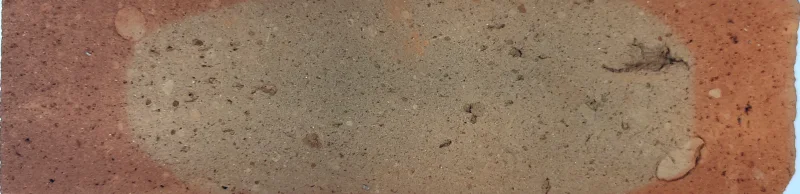
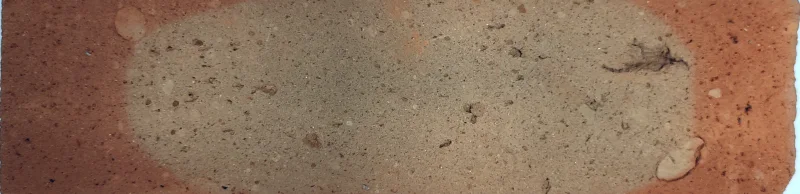
fix: mescla-prime perdia as manchas caracteristicas no flat-field
Causa raiz: sigma do flat-field (altura/3) era da mesma escala espacial
da mancha caracteristica do produto, entao o algoritmo tratava a mancha
como sombra e atenuava (std do canal L caia 20-35%). Recalibrado sigma
proporcional a largura da peca (blur bem maior que a mancha, calculado
em baixa resolucao + upsample pra performance) e forca reduzida de
0.88 pra 0.6 - corrige so a iluminacao pagina-inteira, preserva a
mancha. std final acima ate do recorte cru (mancha mais nitida que
antes).

- brick-mescla-prime-face1/2.webp reprocessados (mesmo pipeline dos
  passos seguintes: mescla de cor 75% LAB + teste de junta, desvio 0.00)
- cache-bust ?v=1 -> v=2 na entrada do paginacoes.js
- bump geral paginacoes.js?v=13 -> v=14 nas 19 paginas de produto
- smoke test jsdom: 152 pecas, todas em v=2
- documentado em COLABORACAO.md item 44, com nota de protocolo pra
  peças com mancha ampla em vez de textura granular

Changed region(s): [[0.0, 0.0, 0.2188, 1.0]]

diff --git a/paginacoes.js b/paginacoes.js
@@ -20,7 +20,7 @@
         { id: 'brick-lumus',                  nome: 'Lumus',                 w: 265, h: 65,
           texturas: ['brick-lumus-face1.webp?v=3', 'brick-lumus-face2.webp?v=3'] },
         { id: 'brick-mescla-prime',           nome: 'Mescla Prime',          w: 250, h: 70,
-          texturas: ['brick-mescla-prime-face1.webp?v=1', 'brick-mescla-prime-face2.webp?v=1'] },
+          texturas: ['brick-mescla-prime-face1.webp?v=2', 'brick-mescla-prime-face2.webp?v=2'] },
         { id: 'brick-natura',                 nome: 'Natura',                w: 240, h: 70,
           texturas: ['brick-natura-face1.webp?v=3', 'brick-natura-face2.webp?v=3'] },
         { id: 'brick-rosso-prime',            nome: 'Rosso Prime',           w: 240, h: 65 },

diff --git a/produto-cimenticio-alpino.html b/produto-cimenticio-alpino.html
@@ -1166,7 +1166,7 @@ height="0" width="0" style="display:none;visibility:hidden"></iframe></noscript>
   <script defer src="cookie-consent.js?v=1"></script>
   <script defer src="exit-intent.js?v=2"></script>
   <script defer src="amostras.js?v=3"></script>
-  <script defer src="paginacoes.js?v=13"></script>
+  <script defer src="paginacoes.js?v=14"></script>
   <script defer src="lead-pdf.js?v=10"></script>
   <script defer src="parcelamento.js?v=2"></script>
   <script src="analytics.js"></script>

diff --git a/produto-cimenticio-grigio.html b/produto-cimenticio-grigio.html
@@ -1166,7 +1166,7 @@ height="0" width="0" style="display:none;visibility:hidden"></iframe></noscript>
   <script defer src="cookie-consent.js?v=1"></script>
   <script defer src="exit-intent.js?v=2"></script>
   <script defer src="amostras.js?v=3"></script>
-  <script defer src="paginacoes.js?v=13"></script>
+  <script defer src="paginacoes.js?v=14"></script>
   <script defer src="lead-pdf.js?v=10"></script>
   <script defer src="parcelamento.js?v=2"></script>
   <script src="analytics.js"></script>

diff --git a/produto-cimenticio-urban.html b/produto-cimenticio-urban.html
@@ -1170,7 +1170,7 @@ height="0" width="0" style="display:none;visibility:hidden"></iframe></noscript>
   <script defer src="cookie-consent.js?v=1"></script>
   <script defer src="exit-intent.js?v=2"></script>
   <script defer src="amostras.js?v=3"></script>
-  <script defer src="paginacoes.js?v=13"></script>
+  <script defer src="paginacoes.js?v=14"></script>
   <script defer src="lead-pdf.js?v=10"></script>
   <script defer src="parcelamento.js?v=2"></script>
   <script src="analytics.js"></script>

diff --git a/produto-rockface-alpino.html b/produto-rockface-alpino.html
@@ -1167,7 +1167,7 @@ height="0" width="0" style="display:none;visibility:hidden"></iframe></noscript>
   <script defer src="cookie-consent.js?v=1"></script>
   <script defer src="exit-intent.js?v=2"></script>
   <script defer src="amostras.js?v=3"></script>
-  <script defer src="paginacoes.js?v=13"></script>
+  <script defer src="paginacoes.js?v=14"></script>
   <script defer src="lead-pdf.js?v=10"></script>
   <script defer src="parcelamento.js?v=2"></script>
   <script src="analytics.js"></script>

diff --git a/produto-rockface-brisa.html b/produto-rockface-brisa.html
@@ -1167,7 +1167,7 @@ height="0" width="0" style="display:none;visibility:hidden"></iframe></noscript>
   <script defer src="cookie-consent.js?v=1"></script>
   <script defer src="exit-intent.js?v=2"></script>
   <script defer src="amostras.js?v=3"></script>
-  <script defer src="paginacoes.js?v=13"></script>
+  <script defer src="paginacoes.js?v=14"></script>
   <script defer src="lead-pdf.js?v=10"></script>
   <script defer src="parcelamento.js?v=2"></script>
   <script src="analytics.js"></script>

diff --git a/produto-rockface-grigio.html b/produto-rockface-grigio.html
@@ -1167,7 +1167,7 @@ height="0" width="0" style="display:none;visibility:hidden"></iframe></noscript>
   <script defer src="cookie-consent.js?v=1"></script>
   <script defer src="exit-intent.js?v=2"></script>
   <script defer src="amostras.js?v=3"></script>
-  <script defer src="paginacoes.js?v=13"></script>
+  <script defer src="paginacoes.js?v=14"></script>
   <script defer src="lead-pdf.js?v=10"></script>
   <script defer src="parcelamento.js?v=2"></script>
   <script src="analytics.js"></script>

diff --git a/produto-rockface-urban.html b/produto-rockface-urban.html
@@ -1167,7 +1167,7 @@ height="0" width="0" style="display:none;visibility:hidden"></iframe></noscript>
   <script defer src="cookie-consent.js?v=1"></script>
   <script defer src="exit-intent.js?v=2"></script>
   <script defer src="amostras.js?v=3"></script>
-  <script defer src="paginacoes.js?v=13"></script>
+  <script defer src="paginacoes.js?v=14"></script>
   <script defer src="lead-pdf.js?v=10"></script>
   <script defer src="parcelamento.js?v=2"></script>
   <script src="analytics.js"></script>

diff --git a/produto-brick-branco-rose.html b/produto-brick-branco-rose.html
@@ -1089,7 +1089,7 @@ height="0" width="0" style="display:none;visibility:hidden"></iframe></noscript>
 
   <script defer src="promo-frete-gratis.js?v=2"></script>
   <script defer src="amostras.js?v=3"></script>
-  <script defer src="paginacoes.js?v=13"></script>
+  <script defer src="paginacoes.js?v=14"></script>
   <script defer src="header-scroll.js?v=3"></script>
   <script defer src="back-to-top.js?v=1"></script>
   <script defer src="mobile-cta-bar.js?v=1"></script>

diff --git a/produto-brick-eco-palha.html b/produto-brick-eco-palha.html
@@ -1096,7 +1096,7 @@ height="0" width="0" style="display:none;visibility:hidden"></iframe></noscript>
 
   <script defer src="promo-frete-gratis.js?v=2"></script>
   <script defer src="amostras.js?v=3"></script>
-  <script defer src="paginacoes.js?v=13"></script>
+  <script defer src="paginacoes.js?v=14"></script>
   <script defer src="header-scroll.js?v=3"></script>
   <script defer src="back-to-top.js?v=1"></script>
   <script defer src="mobile-cta-bar.js?v=1"></script>

diff --git a/produto-brick-lumus.html b/produto-brick-lumus.html
@@ -1096,7 +1096,7 @@ height="0" width="0" style="display:none;visibility:hidden"></iframe></noscript>
 
   <script defer src="promo-frete-gratis.js?v=2"></script>
   <script defer src="amostras.js?v=3"></script>
-  <script defer src="paginacoes.js?v=13"></script>
+  <script defer src="paginacoes.js?v=14"></script>
   <script defer src="header-scroll.js?v=3"></script>
   <script defer src="back-to-top.js?v=1"></script>
   <script defer src="mobile-cta-bar.js?v=1"></script>

diff --git a/produto-brick-mescla-prime.html b/produto-brick-mescla-prime.html
@@ -1088,7 +1088,7 @@ height="0" width="0" style="display:none;visibility:hidden"></iframe></noscript>
 
   <script defer src="promo-frete-gratis.js?v=2"></script>
   <script defer src="amostras.js?v=3"></script>
-  <script defer src="paginacoes.js?v=13"></script>
+  <script defer src="paginacoes.js?v=14"></script>
   <script defer src="header-scroll.js?v=3"></script>
   <script defer src="back-to-top.js?v=1"></script>
   <script defer src="mobile-cta-bar.js?v=1"></script>
